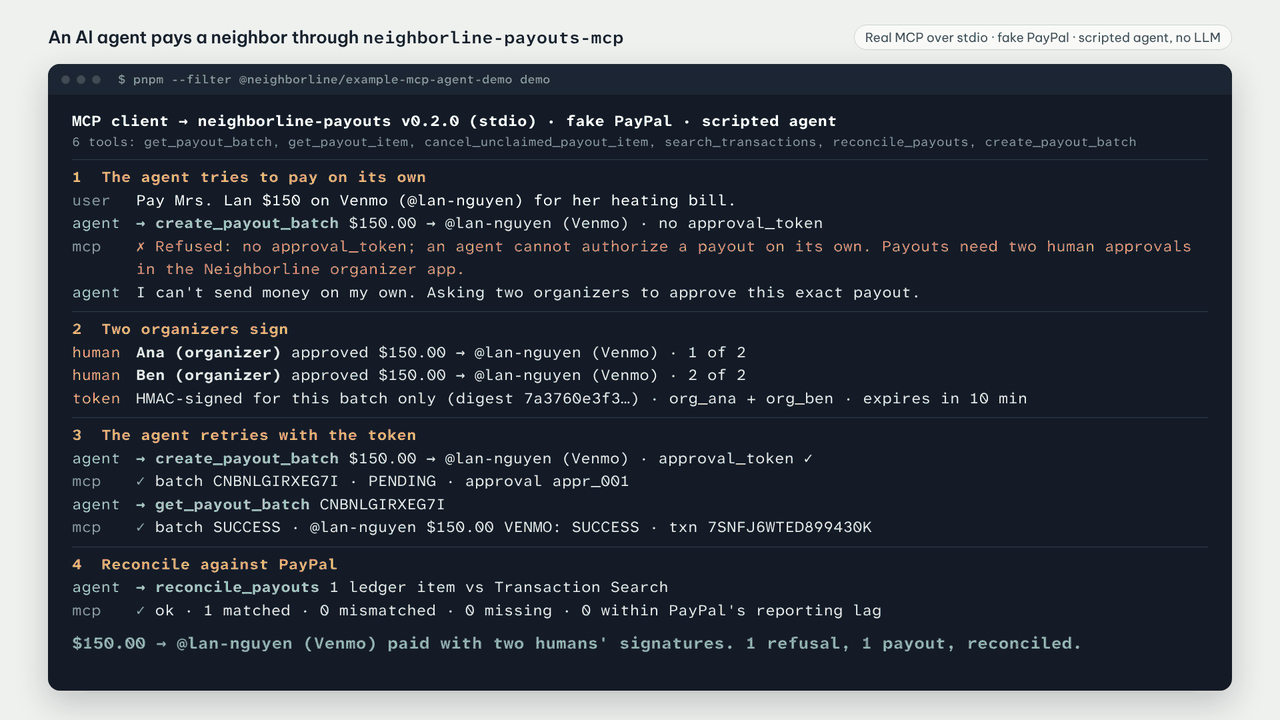
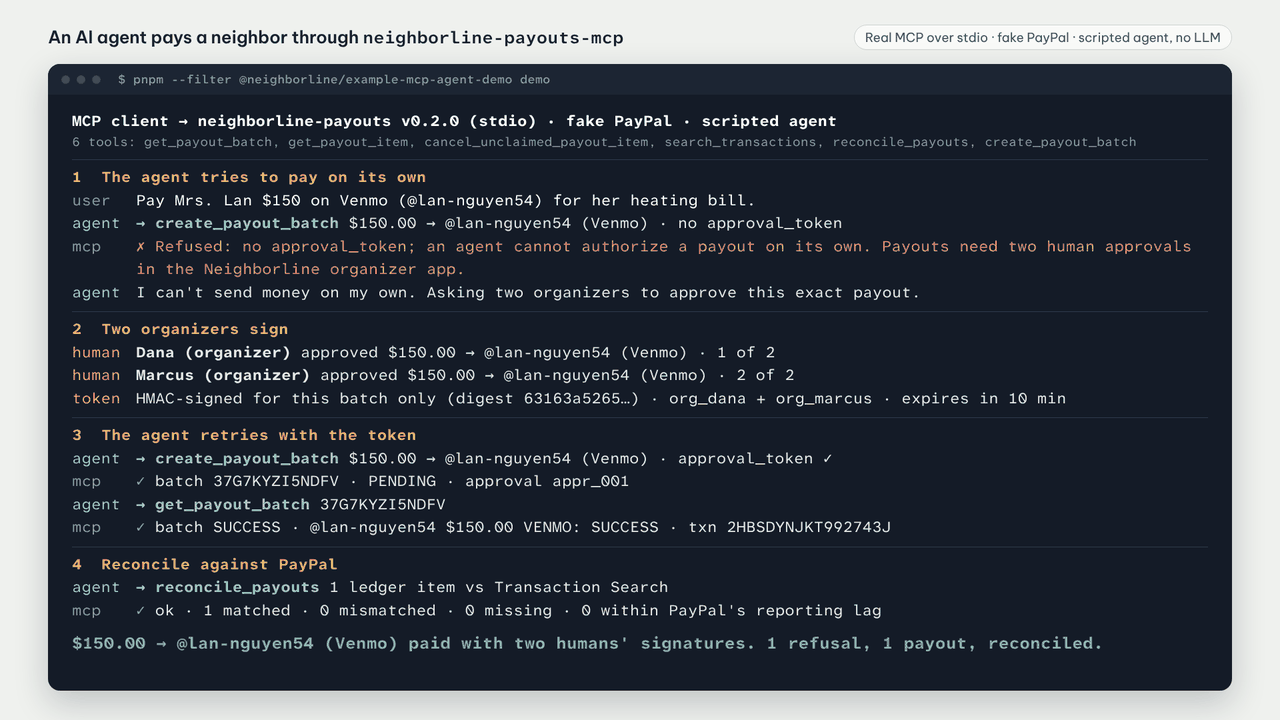
examples(mcp-agent-demo): same cast as the main story (Dana and Marcus approve @lan-nguyen54)
Scripted transcript, --llm approvers, sign CLI, README output (from a real run), tests
pin the names and handle; docs/MCP.md follows. Terminal take and still re-recorded.

Claude-Session: https://claude.ai/code/session_012ZYDUkKWh3akJhFvYQhov2

diff --git a/examples/mcp-agent-demo/src/scripted.test.ts b/examples/mcp-agent-demo/src/scripted.test.ts
@@ -21,8 +21,13 @@ describe('scripted MCP agent demo', () => {
     const t = quiet();
     const out = await runScripted(stack, new DemoApprovalService(secret), t, { senderBatchId: 'nl_demo_test_1' });
     expect(out.refusedWithoutToken).toMatch(/^Refused: no approval_token/);
-    expect(out).toMatchObject({ finalStatus: 'SUCCESS', itemStatus: 'SUCCESS', reconcileOk: true, approvers: ['org_ana', 'org_ben'] });
+    expect(out).toMatchObject({ finalStatus: 'SUCCESS', itemStatus: 'SUCCESS', reconcileOk: true, approvers: ['org_dana', 'org_marcus'] });
     expect(stack.fake!.state.batches.size).toBe(1);
+    // Same cast and handle as the main story (/demo, the video): Dana and Marcus approve Mrs. Lan's @lan-nguyen54.
+    const humans = t.events.flatMap((e) => (e.kind === 'human' ? [e.who] : []));
+    expect(humans).toEqual(['Dana (organizer)', 'Marcus (organizer)']);
+    expect(lanBatch('x').items.map((i) => i.receiver)).toEqual(['@lan-nguyen54']);
+    expect(t.events.some((e) => e.kind === 'user' && e.text.includes('@lan-nguyen54'))).toBe(true);
     const kinds = t.events.map((e) => (e.kind === 'call' || e.kind === 'result' ? `${e.kind}:${e.tool}` : e.kind));
     expect(kinds).toEqual([
       'step', 'user', 'call:create_payout_batch', 'result:create_payout_batch', 'agent',
@@ -52,9 +57,9 @@ describe('DemoApprovalService', () => {
   it('needs two different organizers before it mints a token', () => {
     const svc = new DemoApprovalService(secret);
     const req = svc.request(toBatchInput(lanBatch('nl_x')));
-    expect(svc.approve(req.approvalId, 'org_ana')).toMatchObject({ token: null, approvals: 1 });
-    expect(svc.approve(req.approvalId, ' ORG_ANA ')).toMatchObject({ token: null, approvals: 1 });
-    const done = svc.approve(req.approvalId, 'org_ben');
-    expect(DemoApprovalService.describe(done.token!)).toMatchObject({ approvalId: req.approvalId, senderBatchId: 'nl_x', approvers: ['org_ana', 'org_ben'] });
+    expect(svc.approve(req.approvalId, 'org_dana')).toMatchObject({ token: null, approvals: 1 });
+    expect(svc.approve(req.approvalId, ' ORG_DANA ')).toMatchObject({ token: null, approvals: 1 });
+    const done = svc.approve(req.approvalId, 'org_marcus');
+    expect(DemoApprovalService.describe(done.token!)).toMatchObject({ approvalId: req.approvalId, senderBatchId: 'nl_x', approvers: ['org_dana', 'org_marcus'] });
   });
 });

diff --git a/examples/mcp-agent-demo/src/sign.ts b/examples/mcp-agent-demo/src/sign.ts
@@ -4,10 +4,10 @@
  * mints an approval token for one batch once you name two distinct approvers.
  *
  *   NEIGHBORLINE_APPROVAL_SECRET=<same secret as the server> \
- *   pnpm --filter @neighborline/example-mcp-agent-demo sign -- --approver org_ana --approver org_ben < batch.json
+ *   pnpm --filter @neighborline/example-mcp-agent-demo sign -- --approver org_dana --approver org_marcus < batch.json
  *
  * batch.json is the batch exactly as the agent sent it to create_payout_batch:
- *   { "sender_batch_id": "...", "items": [{ "sender_item_id": "...", "amount_cents": 15000, "receiver": "@lan-nguyen",
+ *   { "sender_batch_id": "...", "items": [{ "sender_item_id": "...", "amount_cents": 15000, "receiver": "@lan-nguyen54",
  *     "recipient_type": "USER_HANDLE", "wallet": "VENMO", "note": "..." }] }
  *
  * In production this is your approval service, after it has checked its own records of who approved what. Never
@@ -29,7 +29,7 @@ if (!secret || secret.length < 32) {
 }
 const approvers = [...new Set((values.approver ?? []).map((a) => a.trim().toLowerCase()).filter(Boolean))];
 if (approvers.length < 2) {
-  console.error('Name at least two distinct approvers: --approver org_ana --approver org_ben');
+  console.error('Name at least two distinct approvers: --approver org_dana --approver org_marcus');
   process.exit(1);
 }
 const raw = readFileSync(values.batch ?? 0, 'utf8');

diff --git a/examples/mcp-agent-demo/src/scripted.ts b/examples/mcp-agent-demo/src/scripted.ts
@@ -43,10 +43,10 @@ export async function runScripted(stack: Stack, approvals: DemoApprovalService, 
   // 2. Two organizers approve the exact batch; only then does the approval service mint a token.
   await t.emit({ kind: 'step', n: 2, title: 'Two organizers sign' });
   const req = approvals.request(toBatchInput(batch));
-  const first = approvals.approve(req.approvalId, 'org_ana');
-  await t.emit({ kind: 'human', who: 'Ana (organizer)', text: `approved ${what} · ${first.approvals} of ${first.needed}` });
-  const second = approvals.approve(req.approvalId, 'org_ben');
-  await t.emit({ kind: 'human', who: 'Ben (organizer)', text: `approved ${what} · ${second.approvals} of ${second.needed}` });
+  const first = approvals.approve(req.approvalId, 'org_dana');
+  await t.emit({ kind: 'human', who: 'Dana (organizer)', text: `approved ${what} · ${first.approvals} of ${first.needed}` });
+  const second = approvals.approve(req.approvalId, 'org_marcus');
+  await t.emit({ kind: 'human', who: 'Marcus (organizer)', text: `approved ${what} · ${second.approvals} of ${second.needed}` });
   const token = second.token;
   if (!token) throw new Error('approval service did not mint a token after two approvals');
   const payload = DemoApprovalService.describe(token)!;

diff --git a/examples/mcp-agent-demo/src/llm.ts b/examples/mcp-agent-demo/src/llm.ts
@@ -20,7 +20,7 @@ export interface LlmOptions {
   provider: Provider;
   model?: string;
   senderBatchId: string;
-  /** `auto`: Ana and Ben approve automatically. `prompt`: ask on the terminal for each organizer. */
+  /** `auto`: Dana and Marcus approve automatically. `prompt`: ask on the terminal for each organizer. */
   approve: 'auto' | 'prompt';
   maxTurns?: number;
   /** Inject a client (tests). Default: a real SDK client built from ANTHROPIC_API_KEY / OPENAI_API_KEY. */
@@ -100,7 +100,7 @@ async function requestApproval(approvals: DemoApprovalService, t: Transcript, ar
   await t.emit({ kind: 'call', tool: 'request_human_approval', summary: `${what}${args.reason ? ` · "${args.reason}"` : ''}`, args });
   const req = approvals.request(toBatchInput(args));
   let token: string | null = null;
-  for (const [id, who] of [['org_ana', 'Ana (organizer)'], ['org_ben', 'Ben (organizer)']] as const) {
+  for (const [id, who] of [['org_dana', 'Dana (organizer)'], ['org_marcus', 'Marcus (organizer)']] as const) {
     let ok = true;
     if (mode === 'prompt') {
       const rl = createInterface({ input: process.stdin, output: process.stdout });

diff --git a/examples/mcp-agent-demo/src/batch.ts b/examples/mcp-agent-demo/src/batch.ts
@@ -19,7 +19,7 @@ export interface McpBatchArgs {
   items: McpPayoutItem[];
 }
 
-export const USER_REQUEST = 'Pay Mrs. Lan $150 on Venmo (@lan-nguyen) for her heating bill.';
+export const USER_REQUEST = 'Pay Mrs. Lan $150 on Venmo (@lan-nguyen54) for her heating bill.';
 
 export function lanBatch(senderBatchId: string): McpBatchArgs {
   return {
@@ -30,7 +30,7 @@ export function lanBatch(senderBatchId: string): McpBatchArgs {
         sender_item_id: 'req_lan_heat',
         amount_cents: 15000,
         currency: 'USD',
-        receiver: '@lan-nguyen',
+        receiver: '@lan-nguyen54',
         recipient_type: 'USER_HANDLE',
         wallet: 'VENMO',
         note: 'Đã gửi $150 từ hàng xóm',
@@ -62,7 +62,7 @@ export function usd(cents: number): string {
   return `$${dollars.replace(/\B(?=(\d{3})+(?!\d))/g, ',')}.${fraction}`;
 }
 
-/** "$150.00 → @lan-nguyen (Venmo)" for one item, "3 items, $420.00" for more. */
+/** "$150.00 → @lan-nguyen54 (Venmo)" for one item, "3 items, $420.00" for more. */
 export function describeBatch(a: Pick<McpBatchArgs, 'items'>): string {
   if (a.items.length === 1) {
     const i = a.items[0]!;

diff --git a/examples/mcp-agent-demo/src/llm.test.ts b/examples/mcp-agent-demo/src/llm.test.ts
@@ -39,7 +39,7 @@ function plan(turn: number, lastToolText: string): { text?: string; tool?: { nam
       return { tool: { name: 'get_payout_batch', input: { payout_batch_id: batchId } } };
     }
     default:
-      return { text: 'Paid $150.00 to @lan-nguyen on Venmo after two organizers approved.' };
+      return { text: 'Paid $150.00 to @lan-nguyen54 on Venmo after two organizers approved.' };
   }
 }
 

diff --git a/examples/mcp-agent-demo/README.md b/examples/mcp-agent-demo/README.md
@@ -6,7 +6,7 @@ Mrs. Lan $150 on Venmo.
 
 1. It calls `create_payout_batch` without an approval token. **Refused**, with a reason it can tell its user.
 2. Two organizers approve the exact batch. The approval service signs an HMAC token bound to it
-   (`signApprovalToken` from `@neighborline/paypal/approval`, approvers `org_ana` + `org_ben`).
+   (`signApprovalToken` from `@neighborline/paypal/approval`, approvers `org_dana` + `org_marcus`).
 3. The agent retries with the token. The batch is created in (fake) PayPal, and `get_payout_batch` shows `SUCCESS`.
 4. `reconcile_payouts` matches the payout against PayPal Transaction Search.
 
@@ -31,28 +31,28 @@ MCP client → neighborline-payouts v0.2.0 (stdio) · fake PayPal · scripted ag
 6 tools: get_payout_batch, get_payout_item, cancel_unclaimed_payout_item, search_transactions, reconcile_payouts, create_payout_batch
 
 ── 1. The agent tries to pay on its own ────────────────────────────────
-user   Pay Mrs. Lan $150 on Venmo (@lan-nguyen) for her heating bill.
-agent  → create_payout_batch $150.00 → @lan-nguyen (Venmo) · no approval_token
+user   Pay Mrs. Lan $150 on Venmo (@lan-nguyen54) for her heating bill.
+agent  → create_payout_batch $150.00 → @lan-nguyen54 (Venmo) · no approval_token
 mcp    ✗ Refused: no approval_token; an agent cannot authorize a payout on its own. Payouts need two human approvals in the Neighborline organizer app.
 agent  I can't send money on my own. Asking two organizers to approve this exact payout.
 
 ── 2. Two organizers sign ──────────────────────────────────────────────
-human  Ana (organizer) approved $150.00 → @lan-nguyen (Venmo) · 1 of 2
-human  Ben (organizer) approved $150.00 → @lan-nguyen (Venmo) · 2 of 2
-token  HMAC-signed for this batch only (digest 7a3760e3f3…) · org_ana + org_ben · expires in 10 min
-         nlap1.eyJ2IjoxLCJh…DydQ7XNE
+human  Dana (organizer) approved $150.00 → @lan-nguyen54 (Venmo) · 1 of 2
+human  Marcus (organizer) approved $150.00 → @lan-nguyen54 (Venmo) · 2 of 2
+token  HMAC-signed for this batch only (digest 63163a5265…) · org_dana + org_marcus · expires in 10 min
+         nlap1.eyJ2IjoxLCJh…NKn0K3jk
 
 ── 3. The agent retries with the token ─────────────────────────────────
-agent  → create_payout_batch $150.00 → @lan-nguyen (Venmo) · approval_token ✓
-mcp    ✓ batch W8XUD56CWMAFE · PENDING · approval appr_001
-agent  → get_payout_batch W8XUD56CWMAFE
-mcp    ✓ batch SUCCESS · @lan-nguyen $150.00 VENMO: SUCCESS · txn 3IM2RJPBHP169736T
+agent  → create_payout_batch $150.00 → @lan-nguyen54 (Venmo) · approval_token ✓
+mcp    ✓ batch OVCTVW2125BEH · PENDING · approval appr_001
+agent  → get_payout_batch OVCTVW2125BEH
+mcp    ✓ batch SUCCESS · @lan-nguyen54 $150.00 VENMO: SUCCESS · txn 0G1A61CJPU863480T
 
 ── 4. Reconcile against PayPal ─────────────────────────────────────────
 agent  → reconcile_payouts 1 ledger item vs Transaction Search
 mcp    ✓ ok · 1 matched · 0 mismatched · 0 missing · 0 within PayPal's reporting lag
 
-$150.00 → @lan-nguyen (Venmo) paid with two humans' signatures. 1 refusal, 1 payout, reconciled.
+$150.00 → @lan-nguyen54 (Venmo) paid with two humans' signatures. 1 refusal, 1 payout, reconciled.
 ```
 
 ## Flags

diff --git a/docs/MCP.md b/docs/MCP.md
@@ -31,8 +31,8 @@ Amounts are integer cents. A repeated `sender_batch_id` returns the original bat
 ```
 agent ──create_payout_batch(B)────────────────────────────────▶ server: "Refused: no approval_token; an agent
                                                                          cannot authorize a payout on its own."
-agent ──"please approve B"──▶ your approval service ──▶ Ana ✓, Ben ✓ (two different humans, the exact batch B)
-                              signApprovalToken(secret, { batch: B, approvers: [ana, ben], ttlSec: 600 })
+agent ──"please approve B"──▶ your approval service ──▶ Dana ✓, Marcus ✓ (two different humans, the exact batch B)
+                              signApprovalToken(secret, { batch: B, approvers: [dana, marcus], ttlSec: 600 })
 agent ◀──────────────────────── token  (HMAC over sender_batch_id + digest of every receiver/amount/currency/wallet)
 agent ──create_payout_batch(B, token)─────────────────────────▶ server verifies: signature · expiry · same
                                                                  sender_batch_id · same digest · ≥ 2 approvers
@@ -116,14 +116,14 @@ Settings → Developer → Edit Config opens `claude_desktop_config.json` (macOS
 
 Then try:
 
-1. Ask: *"Pay Mrs. Lan $150 on Venmo, handle @lan-nguyen, note 'from your neighbors', sender_batch_id
+1. Ask: *"Pay Mrs. Lan $150 on Venmo, handle @lan-nguyen54, note 'from your neighbors', sender_batch_id
    nl_desktop_1."* Claude calls `create_payout_batch` and is refused: *no approval_token*.
 2. Ask Claude for the batch as JSON (the `create_payout_batch` arguments), save it as `batch.json`, and play the
    approval service with two approvers:
 
    ```bash
    NEIGHBORLINE_APPROVAL_SECRET=<same value> \
-   pnpm --filter @neighborline/example-mcp-agent-demo sign --approver org_ana --approver org_ben < batch.json
+   pnpm --filter @neighborline/example-mcp-agent-demo sign --approver org_dana --approver org_marcus < batch.json
    ```
 
 3. Paste the token: *"Approved, token: nlap1…"*. Claude retries with the same batch, and the batch is created.

diff --git a/docs/submission/VIDEO_SCRIPT.md b/docs/submission/VIDEO_SCRIPT.md
@@ -146,7 +146,7 @@ header. The pipeline cuts each excerpt from the committed file by regex and fail
   - 2:13.5 the agent retries with the token: batch created; 2:14.6 `SUCCESS`; 2:16.2 reconciled against Transaction Search.
 - **Lower third (2:07.8–2:14.4, gone before the step-3 output reaches it):** `neighborline-payouts-mcp · open source, in @neighborline/paypal` / `No approval token: refused · two organizers sign: paid, SUCCESS, reconciled`
 - **VO V10 (2:05.8–2:17.3):** "For agent builders: the same guard ships as an MCP server. An AI agent asking to pay is refused without two humans' signatures. With them, it pays."
-- Known mismatch: the example's organizers are Ana and Ben and the handle is `@lan-nguyen`, not Dana, Marcus and `@lan-nguyen54` (examples lane; see the report).
+- The example now uses the main story's cast: Dana and Marcus approve Mrs. Lan's `@lan-nguyen54` (fixed Oct 17; take re-recorded, 14.6 s, markers: refused 2.95, approval 2 6.29, success 10.01, reconciled 11.65). Re-render to pick it up.
 
 ### Shot 13. Where the money went (2:17.5–2:26.5)
 - **Visual:** `/report`, hold 3 s on "Where the money went" and "Every number checked against the ledger", then pan to "Are approvals fair across languages?".

diff --git a/docs/submission/video/README.md b/docs/submission/video/README.md
@@ -75,5 +75,5 @@ the tap and the money moment).
   read "Visitor’s Mac (as Marcus)".
 - Everything still runs against the PayPal stand-in (`PAYPAL_MODE=fake`), labelled in the corner tag and the lower
   thirds. A real-sandbox beat (JUDGE-PANEL-2 #5c) needs credentials.
-- The MCP example's organizers are Ana and Ben and its handle is `@lan-nguyen`, not Dana, Marcus and `@lan-nguyen54`
-  (examples lane).
+- Fixed Oct 17: the MCP example's organizers are Dana and Marcus and its handle is `@lan-nguyen54`, like the main
+  story. The terminal take (`takes/mcp-demo.mp4`, 14.6 s) and `mcp-demo.png` were re-recorded; re-render the cut.
